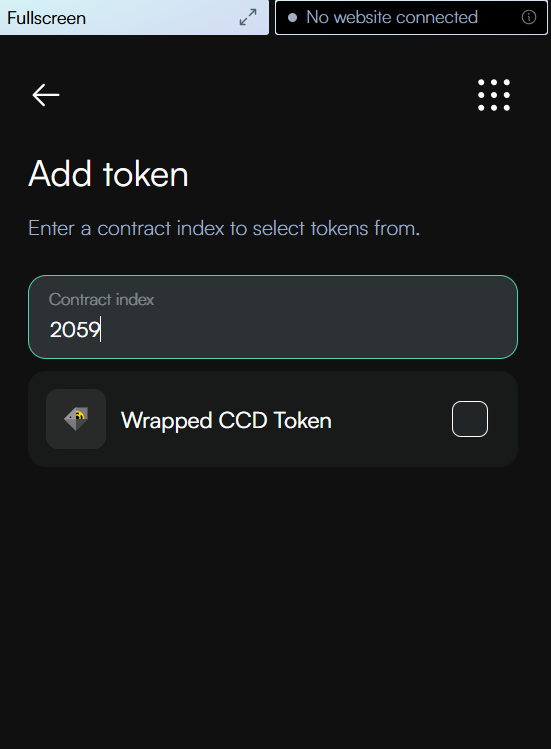
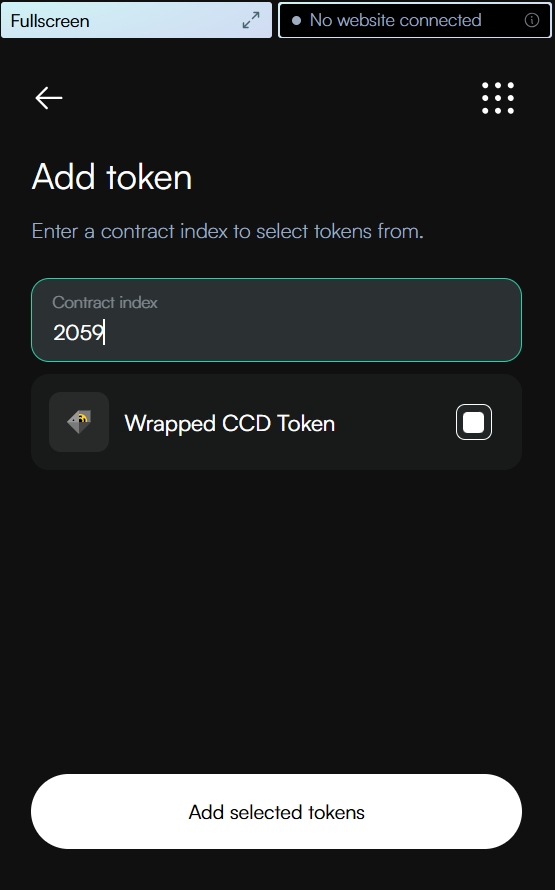
updated workflow for Add tokens

diff --git a/source/mainnet/docs/guides/tokens.rst b/source/mainnet/docs/guides/tokens.rst
@@ -97,35 +97,34 @@ You can add, inspect, and send tokens in |cryptox| and |bw|.
 
 .. dropdown:: |bw|
 
-    To access tokens and token transactions, click Tokens |token-bw|. Tabs appear for tokens.
+    Select the account that you want to manage tokens for in the dropdown menu.
 
     .. dropdown:: Add tokens
 
-        #. Click **Manage**.
+        #. Click **Manage token list** at the bottom of the screen.
 
-            .. image:: ../images/browser-wallet/manage-tokens.png
+        #. Click the **+** at the Manage token list screen.
+
+           .. image:: ../images/browser-wallet/new/manage_token_list.png
                 :width: 50%
 
-        #. Enter a smart contract address on which to look for tokens. Click **Look for tokens**. If you get an error this means that the smart contract doesn’t exist, the smart contract doesn’t live up to the CIS-2 standard, or the smart contract doesn’t contain any tokens.
+        #. Enter a smart contract address on which to look for tokens. If you get an error this means that the smart contract doesn’t exist, the smart contract doesn’t live up to the CIS-2 standard, or the smart contract doesn’t contain any tokens.
 
-            .. image:: ../images/browser-wallet/add-token-contract.png
+        #. Select the token(s) you want to add. You can click on a token to see more information about it and then click the back arrow to return to the list to select tokens. Click **Add selected tokens** once you have made your selection(s).
+
+           .. image:: ../images/browser-wallet/new/add_token2.png
                 :width: 50%
 
-        #. Select the token(s) you want to add. You can click on a token to see more information about it and then click **X** to return to the list to select tokens. You can also search by token ID at the top of the screen. Click **Update tokens** once you have made your selection(s).
+        If you have purchased tokens on a marketplace, it can suggest tokens to be added directly without going through the steps above. In this case the screen below appears when your wallet is connected and the service suggests the tokens to be added. Click **Finish** to add the selected tokens to your wallet.
 
-            .. image:: ../images/browser-wallet/select-tokens.png
-                :width: 50%
-
-        If you have purchased tokens on a marketplace, it can suggest tokens to be added directly without going through the steps above. In this case the screen below appears when your wallet is connected and the service suggests the tokens to be added. Click **Add selected** to add the selected tokens to your wallet.
-
-            .. image:: ../images/browser-wallet/add-tokens.png
-                :width: 50%
+        .. image:: ../images/browser-wallet/new/add_tokens.png
+            :width: 50%
 
         .. Note::
 
             You can add NFTs that are not owned by your account to your wallet. This does not mean that you have ownership of the NFT.
 
-        Once the tokens are added you can see them on the relevant tab.
+        Once the tokens are added you can see them on the account.
 
         An easy way to see how this works is to use the `wCCD example dApp hosted by Concordium <https://wccd.testnet.concordium.com/>`_. Connect it to your |bw| and convert some CCD to wrapped CCD. When you do this, you get a smart contract index. You can then use this smart contract index to search for tokens on the contract and add them to your |bw|.
 
